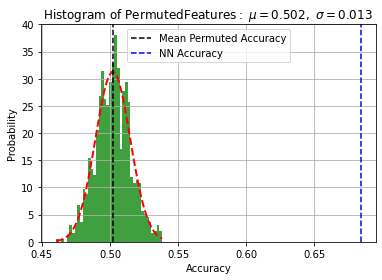
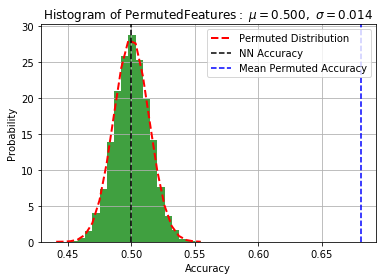
resten af permutation test

Changed region(s): [[0.0, 0.0286, 1.0, 1.0], [0.6047, 0.8571, 0.7199, 0.9429], [0.7775, 0.8571, 0.8639, 0.9429]]

diff --git a/report/Report.tex b/report/Report.tex
@@ -275,14 +275,18 @@
 	
 	\subsection{Permutation test}
 	To identify both whether or not the dataset is biased, and if the accuracy of the FFNN is statistically significant, a permutation test was conducted. It is implemented by permuting every variable in the dataset a set number of times and then validating the permuted data with a trained classifier. If the newly acquired accuracy from the permuted data is different from the non-permuted accuracy, this could possibly mean that the classifier is biased. To phrase differently, if the classifier has a tendency to classify black people as medium/high risk, a permuted race variable would yield a lower accuracy than the non-permuted data. However, it might just be the reality that all black people have a higher chance of recidivism than white people. Thus, further investigations have to be performed to prove the existence of actual bias in an algorithm. \\\\
-	Permutation tests can also be used to test whether an accuracy from a model is statistically significant. When the model is trained on the COMPAS dataset with supervised learning and a validation accuracy has been obtained, it is important to know if the model performs better than random, which can be evaluated using a permutation test. Each input variable was shuffled randomly and the model was evaluated on the randomized data. This was done one thousand times and the accuracy from each of the permutations was compared to the original accuracy from the model that was trained on the non-permuted validation dataset. The thousand accuracies will form a distribution of random accuracies, and the result from the neural network on the real data is statistically significant if this accuracy is significantly far away from this distribution.
+	Permutation tests can also be used to test whether an accuracy from a model is statistically significant. When the model is trained on the COMPAS dataset with supervised learning and a validation accuracy has been obtained, it is important to know if the model performs better than random, which can be evaluated using a permutation test. A null hypothesis $H_{0}$, stating that the observed value comes from the distribution of randomized permutations, is set up and evaluated. To attempt to reject the null hypothesis, each input variable was shuffled randomly and the model was evaluated on the randomized data. This was done one thousand times and the accuracy from each of the permutations was compared to the original accuracy from the model that was trained on the non-permuted validation dataset. The thousand accuracies will form the distribution of random accuracies and the result from the neural network on the real data is statistically significant if the p-value is under the critical value, chosen to be equal to 0.05, since this allows for the null hypothesis to be rejected. This is intuitively equivalent to the accuracy being significantly far away from this distribution. The random permutations and observed accuracy is shown below.
 	\begin{figure}[H]
 		\centering
 		\includegraphics[width=0.65\linewidth]{imgs/perm_test.png}
 		\caption{An illustration of the permutation test. The black dashed line illustrates the mean permuted accuracy, the red dashed line represents the distribution that the permuted data accuracies seem to follow and the blue dashed line is the accuracy of the model on the original non-permuted data. The standard deviation and mean represent normal distribution which is fitted to the permutations.}
 		\label{fig:permtest}
 	\end{figure}\noindent
-	From figure \ref{fig:permtest} it is clear that the obtained accuracy is indeed significant and different from the accuracies of the permuted data. Hence, the permutation test shows that the accuracy from the neural network on the non-permuted data is better than random and has found a meaningful interpretation of the data. 
+	From figure \ref{fig:permtest} it is clear that the obtained accuracy is indeed significant and different from the accuracies of the permuted data. This can be evaluated using the p-value. For a permutation test, the p-value is calculated using 
+	\[p=\frac{B}{M},\]
+	where \textit{B} is the number of extreme permutations (the permutations with values greater than or equal to the observed value) and \textit{M} is the total number of permutations. Since there are no permutations larger than the observed value, this would results in a p-value of 0, which is nonsensical. Thus, the p-value can instead be estimated by 
+	\[p=\frac{1}{M}=0.001,\] 
+	which is definitely significant. Hence, the null hypothesis is rejected and the permutation test thus shows that the accuracy from the neural network on the non-permuted data is better than random and has found a meaningful interpretation of the data. 
 	
 %	As for feature selection every feature was randomly shuffled with re-sampling. If the outputs remained unchanged regardless of the permutation the feature was dropped. Every feature is permuted 1000 times.\\\\
 	%As for identification of biases in the binary classifier the categorical variable race was used. Permutation was implemented by randomly shuffling the attribute with re-sampling. The permuted data were used as input for the model and several confusion matrices were constructed and compared. The matrices were compared to the original confusion matrix, which in turn results in a \textit{p}-value on the percentage of false negatives (FN) on whites compared to African-Americans in the ProPublica data.
